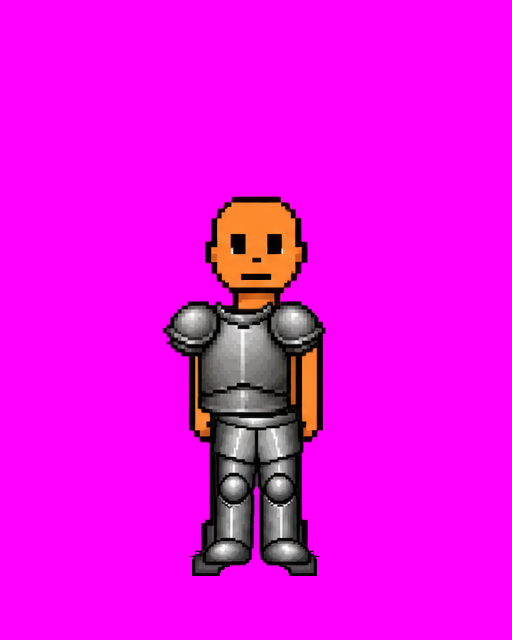
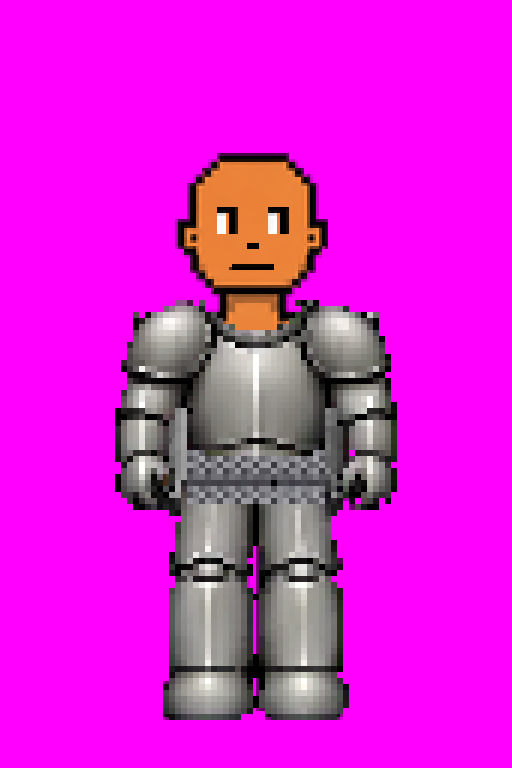
Farm moves: new dressing references from the game's own south bro, with his face, in its white tee and its steel armour (v2.3.3340)
The owner, on the first pair: the eyes were keyed out, the shirt and
armour sat off the body, and the bare bro's boots showed under the
armour. The new pair is the game's walking bro (player-naked
stand-south, his face from player/stand-south) dressed by the game's
own stand-south layers, three times their size; the armour prompt now
covers the arms and feet.

Claude-Session: https://claude.ai/code/session_01AEJK59aobp1ph6chh1WveK

Changed region(s): [[0.2188, 0.1875, 0.7812, 0.9375]]

diff --git a/docs/ART-WISHLIST.md b/docs/ART-WISHLIST.md
@@ -1054,7 +1054,7 @@ No text, numbers, frame borders, grid lines, ground, grass, soil patch or shadow
 ### The farmer's moves, dressed: the T-shirt and the armour (six chats)
 
 - **In the game:** not yet. The owner asked (2026-10-18): *"Do you want to give me the south facing idle character wearing each and give me a prompt to put it on each of the 3 outputs?"* Yes. Garments drawn on their own never lined up with the body: the fire-lighter's shirt, plate and greaves (v2.3.1715) still need a nudge every frame (`FIRE_GEAR_REG`). Drawn ON him, in a copy of each sheet, they follow his arms in every frame.
-- **Attach, in this order:** (1) your own sheet for the move (`tools/farm_anim_src/hoe.png`, `water.png` or `kneel.png`); (2) `docs/art/farm-moves-reference-tee.png` or `docs/art/farm-moves-reference-armour.png`. They are the reference bro in the game's own white tee and its own steel plate and greaves, placed as the fire-lighter wears them.
+- **Attach, in this order:** (1) your own sheet for the move (`tools/farm_anim_src/hoe.png`, `water.png` or `kneel.png`); (2) `docs/art/farm-moves-reference-tee.png` or `docs/art/farm-moves-reference-armour.png`. They are the game's own walking bro, standing and facing south (`public/sprites/player-naked/stand-south.png`, his face from `player/stand-south.png`: the bare body's eyes are left for the game to draw), in the game's own white tee and its own steel plate and greaves, drawn on him as the game draws them (`gear/*/stand-south.png`), three times their size. The owner's notes on the first pair (2026-10-18), made from the fire-lighter: the eyes were keyed out (his body leaves them for the game to draw too), the shirt and armour sat off the body (his garments need `FIRE_GEAR_REG`), and his own boots showed under the armour.
 - **How:** one chat a sheet and outfit, six in all. Before sending, hold the new sheet next to the original: the same pose, size and place in every frame, or ask again in a new chat.
 - **Why white and plain grey:** the game recolours the shirt to the player's own and lays their print or pattern on it, and tints the armour for each metal.
 - **How a session uses them:** a player in a shirt is drawn from the tee sheet, the shirt cut from that same picture and recoloured, so it always fits its own arms. A player in plate and greaves is drawn from the armour sheet. One piece alone is cut from the armour sheet and laid over the other sheet, lined up by the boots and the face.
@@ -1066,7 +1066,7 @@ Two pictures are attached. The first is a finished pixel-art sprite sheet: one a
 
 The only change: in every frame the man wears the plain white T-shirt that the man in the second picture wears. Short sleeves that end halfway down his upper arm, a round neck, the hem over the top of his trousers. White with light grey shading and a black outline; no logo, print or pattern. His forearms and hands stay bare skin, and wherever an arm is in front of his body, the arm is drawn in front of the shirt.
 
-Change nothing else: not his face, skin, trousers or boots, not his pose, not the tool. No text, numbers, borders, grid lines, ground or shadows. Background: one flat magenta (#FF00FF) everywhere. Nothing else in the picture is magenta, pink or purple.
+Take only the T-shirt from the second picture: keep the first picture's drawing style and the man's head, face and proportions exactly as they are. Change nothing else: not his face, skin, trousers or boots, not his pose, not the tool. No text, numbers, borders, grid lines, ground or shadows. Background: one flat magenta (#FF00FF) everywhere. Nothing else in the picture is magenta, pink or purple.
 ```
 
 **Armour:**
@@ -1074,9 +1074,9 @@ Change nothing else: not his face, skin, trousers or boots, not his pose, not th
 ```text
 Two pictures are attached. The first is a finished pixel-art sprite sheet: one animation of 8 frames in a grid of 4 columns × 2 rows, on a flat magenta background. Make that same sprite sheet again as a landscape image, 1536 × 1024, keeping everything exactly as it is: the same 8 frames in the same cells, the man in the same pose, at the same size and in the same place in every cell, the same tool, dirt and water, the same pixel-art style and black outline.
 
-The only change: in every frame the man wears the steel armour that the man in the second picture wears: a grey steel breastplate with round shoulder plates over his chest, with no shirt under it, and steel leg plates with round knee caps over his trousers, down to his boots. Plain grey steel, shaded like the second picture, with a black outline. His arms below the shoulder plates and his hands stay bare skin, and wherever an arm is in front of his body, the arm is drawn in front of the armour.
+The only change: in every frame the man wears the steel armour that the man in the second picture wears, from his shoulders to his feet: a steel breastplate with round shoulder plates, steel plates down both arms to his hands, a chain-mail belt, and steel leg plates that cover his trousers and his boots completely. Plain grey steel, shaded like the second picture, with a black outline. No shirt, trousers or boots show anywhere; his head stays bare. Wherever an arm is in front of his body, the armoured arm is drawn in front of the breastplate.
 
-Change nothing else: not his face, skin or boots, not his pose, not the tool. No text, numbers, borders, grid lines, ground or shadows. Background: one flat magenta (#FF00FF) everywhere. Nothing else in the picture is magenta, pink or purple.
+Take only the armour from the second picture: keep the first picture's drawing style and the man's head, face and proportions exactly as they are. Change nothing else: not his face, not his pose, not the tool. No text, numbers, borders, grid lines, ground or shadows. Background: one flat magenta (#FF00FF) everywhere. Nothing else in the picture is magenta, pink or purple.
 ```
 
 ## Sounds
